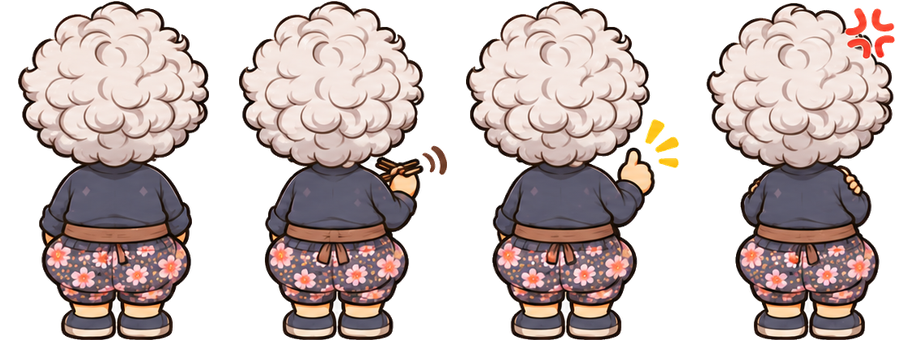
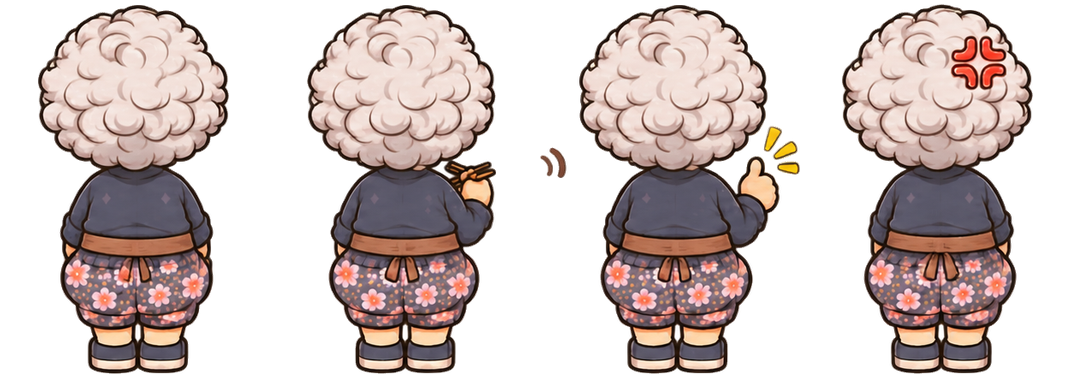
그림: 3안 낮 판, 이름 없는 다섯과 해솔 바른 자세 앉은 시트(뒤, 옆, 앞), 세라 반응 3칸 [skip ci]

diff --git a/docs/그림_요청_목록.md b/docs/그림_요청_목록.md
@@ -148,7 +148,7 @@
 |---|---|---|
 | ✅ `staff/yeoul_sd_react.png` | 여울 반응 3칸 3:2(1536x1024): 대기(쟁반 옆구리), 빈 쟁반 내밀기, 꾸벅 인사 | `docs/ref/sd/알바/yeoul_react_gen2_tray.png` (점무늬 배경과 머리 옆 막힌 틈을 지움) |
 | ✅ `staff/yeoul_sd_walk.png` | 여울 빈 쟁반 들고 걷기 8칸 3:1(2172x724): 1·2 앞, 3·4 뒤, 5~8 오른쪽 옆 | `docs/ref/sd/알바/yeoul_walk_gen2_fix.png` (옆모습 머리색 맞춘 판) |
-| ✅ `staff/sera_sd_cook.png` | 세라 조리 4칸 2:1(1774x887): 대기(뒤집개), 팬 흔들기 두 칸(번갈아 쓰면 조리 움직임), 빈 접시 들어 올리기 | `docs/ref/sd/알바/sera_cook_gen1.png`. 세라는 주방에만 있어 걷기와 반응은 받지 않음(사용자 11-12) |
+| ✅ `staff/sera_sd_cook.png` | 세라 조리 4칸 2:1(1774x887): 대기(뒤집개), 팬 흔들기 두 칸(번갈아 쓰면 조리 움직임), 빈 접시 들어 올리기 | `docs/ref/sd/알바/sera_cook_gen1.png`. 세라는 주방에만 있어 걷기와 반응은 받지 않음(사용자 11-12). 그 뒤 세라가 요리를 맡으면서 11-16 걷기, 11-17 반응을 받음 |
 | ✅ `staff/sera_sd_walk.png` | 세라 걷기 8칸 3:1(2172x724, 1·2 앞, 3·4 뒤, 5~8 오른쪽 옆). 11-16 개발 세션 요청, 사용자가 A안(묶은 머리) 고름. 칸마다 0.81배로 줄여 주인공 걷기 시트와 발 높이(y 617)와 키(약 470px)를 맞춤 | `docs/ref/sd/알바/sera_walk_1차_A.png`, `_투명.png` (B안 보관) |
 
 ## 식당 영업 개편용 (2026-11-11, 개발 세션 요청. 설계는 `docs/식당_영업_개편_요청_2026-11-11.md`)
@@ -200,6 +200,18 @@
 | (보관) | 11-13 바닥·벽 세트 A(흰색·하늘색 체크 바닥, 청록 타일, 하늘색 판자벽), 세트 B(호두나무 헤링본, 쑥색 타일, 크림 회벽). 예전 3차 바탕 위에 그린 판이라 6차에는 다시 받아야 한다. B 낮 판은 대화에서 찾지 못함 | `바닥벽_세트_1113/` |
 
 미리보기: `미리보기_6차_낮밤.jpg`, `미리보기_6차_낡은바.jpg`, `미리보기_6차_조명간판.jpg`
+
+## 식당 3안 홀 구조와 바른 자세 앉은 시트 (2026-11-17)
+
+11-17 회사 PC에서 식당 구조를 처음부터 다시 받아(ChatGPT "식당 내부 재설계" 대화, 1~3안) 3안 홀형으로 정했다: 위 오른쪽 주방 앞 바 4석, 왼쪽 창가 긴 선반 4석, 가운데 4인 테이블 둘(8석), 오른쪽 칸막이 뒤 2인 테이블, 모두 16석. 같은 날 앉은 손님을 "바른 자세"(등 곧게, 엉덩이는 어깨 폭 안쪽, 두 다리 나란히)로 다시 받고 정면 앉은 시트를 새로 받았다. 회사 PC 원본과 가공 스크립트(split_v2.py, norm_front.py, back_only.py, dechecker.py, 앉은손님_확인그림.py)는 드라이브 `오늘의바다_백업/art_inbox/2026-11-17`. 게임에서는 SEAT_K 0.44로 놓는다(개발 세션).
+
+| 상태 | 게임 파일 | 내용 | 원본 |
+|---|---|---|---|
+| ✅ | `bg_shop_hall_night.png` | 3안 밤 판 982x1602 (11-17 회사 PC) | `docs/ref/배경/식당_새구조/bg_shop_새구조_3안_밤.png`, 미리보기 `식당_새구조/미리보기/` |
+| ✅ | `bg_shop_hall_day.png` | 3안 낮 판 982x1602. 밤 판을 첨부해 빛만 바꿈(맑은 늦은 아침, 등과 촛불 꺼짐). 가구 자리 그대로 | `식당_새구조/bg_shop_새구조_3안_낮_1차.png` |
+| ✅ | `sd_guest/<id>_seat_back.png`, `_side.png`, `_front.png` (mansu, sundeok, bokja, junho, gyeongja) | 이름 있는 다섯 바른 자세 (11-17 회사 PC). 한 줄 4칸(기다림, 먹는 중, 만족, 화남), 칸 폭 같고 아래 맞춤. back과 side는 8칸 한 장을 split_v2로 나눔, front는 norm_front로 back 키에 맞춤 | `docs/ref/sd/앉은자세_v2/`, `docs/ref/sd/앉은앞모습/` |
+| ✅ | `sd_guest/guest_<id>_seat_back/side/front.png` (tourist, fisher, student, office, haenyeo), `haesol_seat_*.png` | 이름 없는 다섯과 김해솔 바른 자세 (11-17 노트북). 같은 양식. ChatGPT "바른 자세 시트 제작" 대화 둘에서 받음: 8칸(1~4 뒷모습, 5~8 옆모습, 3:1)과 정면 4칸(3:1). 투명 요청에도 가짜 체크무늬나 흰 스티커 테두리가 와서 흰 바탕에 얹은 뒤 dechecker로 지움. 크기: 8칸은 이전 게임 seat_back 칸0과 머리 폭(위 35%)을 맞춤(split_v2 방식에 back_only의 머리 폭 기준), 정면은 새 back 키에 맞춤. 해솔 정면은 양갈래 머리와 몸 사이 막힌 흰 틈을 지움 | `docs/ref/sd/앉은자세_v2/보통손님/<id>_seat_v2_1차.png`(받은 원본), `_alpha.png`(투명), `docs/ref/sd/앉은앞모습/보통손님/<id>_seat_front_raw_1차.png`, `_alpha.png` |
+| ✅ | `staff/sera_sd_react.png` | 세라 반응 3칸 3:2(1536x1024, 칸 폭 512): 서 있기(팔짱 씩 웃음), 만족(윙크 엄지 척), 곤란(뒷머리 긁는 쓴웃음, 땀). 걷기 시트와 같은 옷, 흰 바탕으로 받아 지움. 머리카락 사이 흰 틈 다섯 곳 지움. 인물 키 약 968px(걷기 시트 키 약 467px) | `docs/ref/인물/sera/SD/sera_sd_react_1차.png`, `_투명.png` |
 
 ## 마을 배경 (2026-11-11, 세로 9:16)
 
